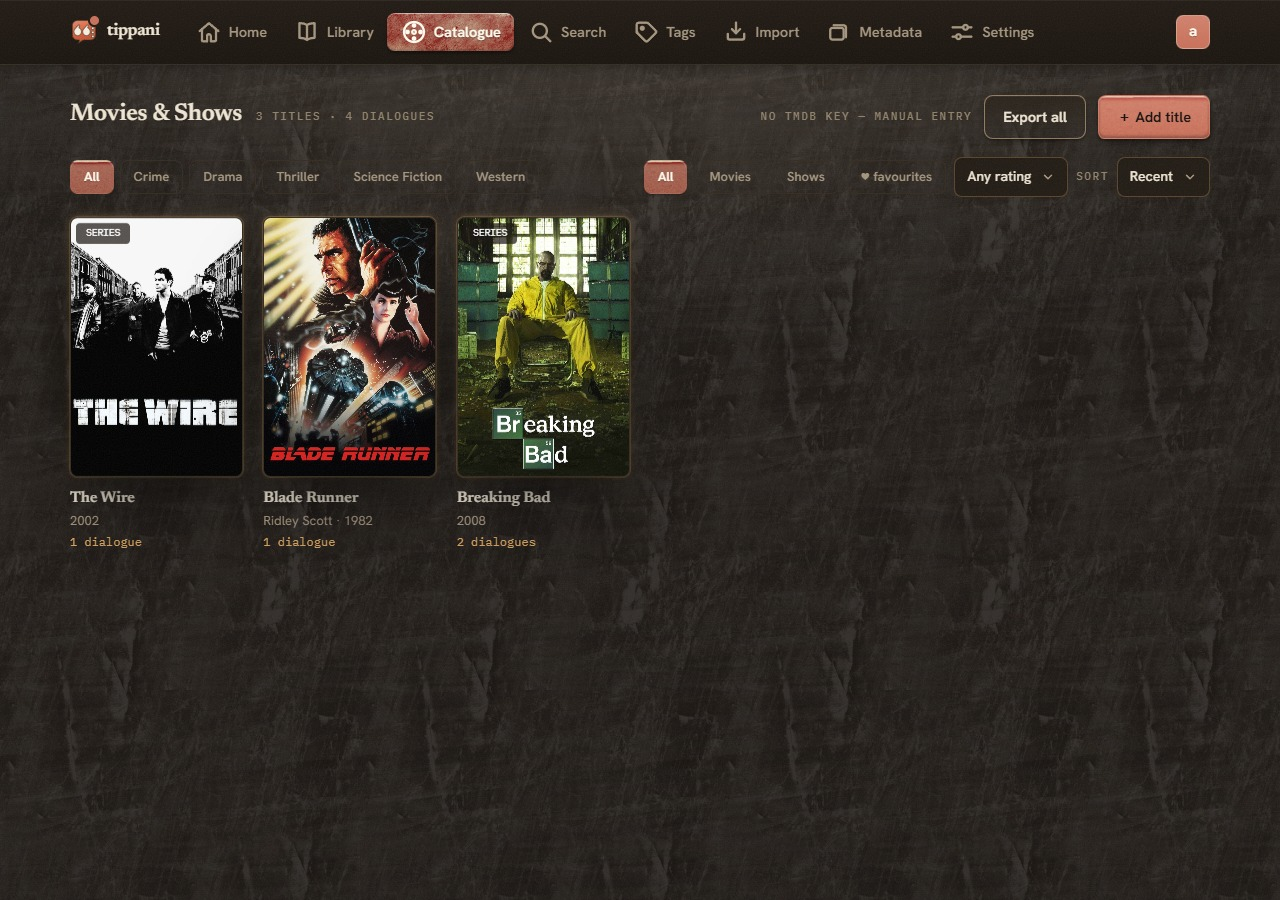
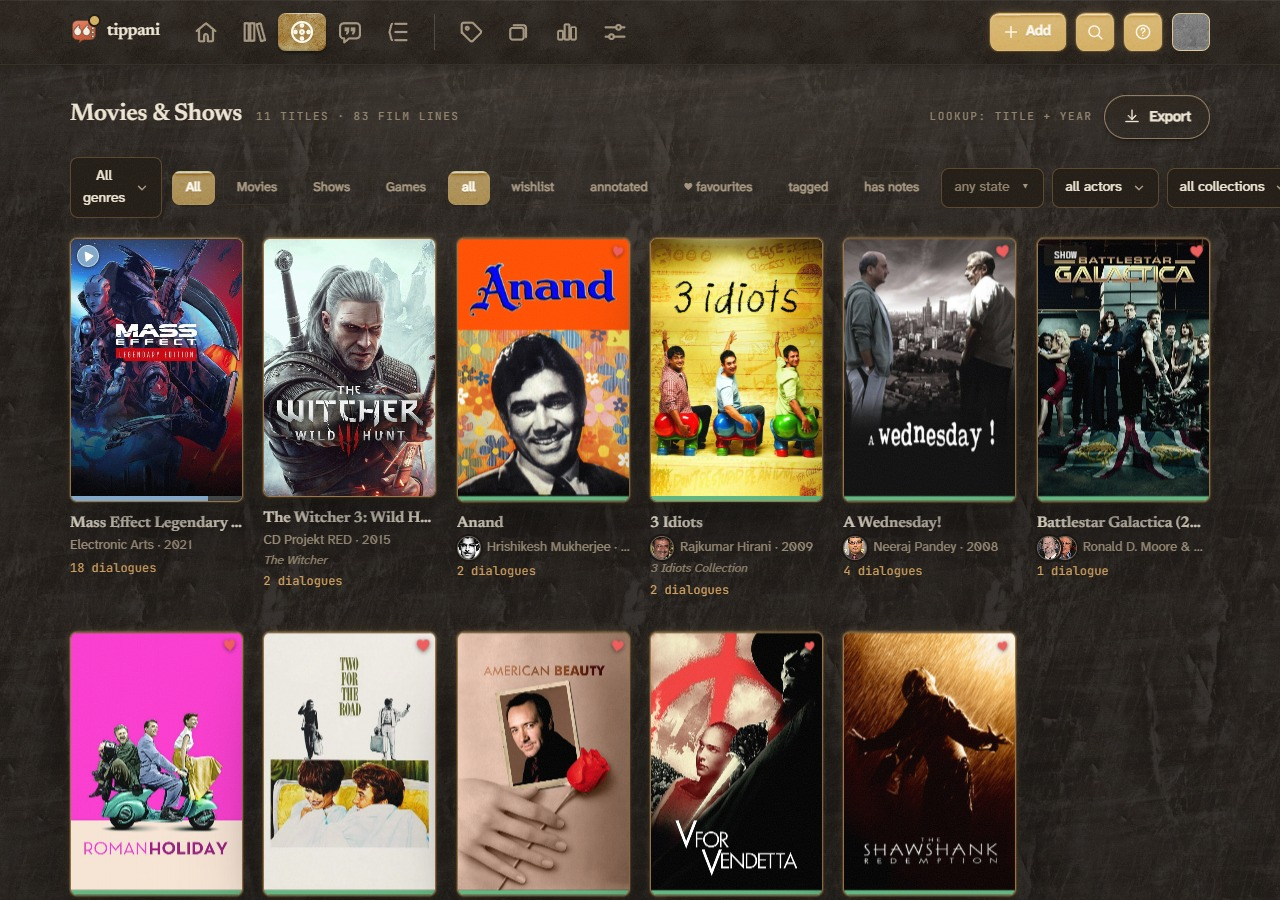
docs(readme): re-shoot the six hero images, all four skins
THE COMMITTED ONES WERE ADVERTISING A 501. They were shot against a shell that no
longer exists — a text tab strip (Home | Library | Catalogue | Search | Tags |
Import | Metadata | Settings), Import as a full page rather than a section of the
"+ Add" surface, no + Add button at all — and the import wall's My Clippings card
read "Kindle-device file — deferred for now · returns 501 — deferred" for an
importer that has since shipped, caveat and all. hero-shots.js was stale in the
same way, which is why its clickTab('Import') and clickTab('Search') both silently
matched nothing: neither is a tab any more, so two of the six shots came out as a
second copy of the Library and of the Catalogue.

ALL FOUR SKINS NOW, one per desktop shot, each on a different accent — Books
(paper · light · terracotta), Catalogue (film · dark · ochre), Import
(paper · dark · olive), Search (film · light · slate). The old set used
paper-light and film-dark only and forced terracotta on all six, so a reader never
saw half the theming the app is largely about.

THE PHONE SLOT IS THE QUOTES PAGE rather than a second cover grid: the standalone
quotes here are traditional proverbs in Bengali, Hindi and English, so it is the
one screen that shows three scripts at once, each with its script mark and its
English translation underneath. That is what the Bengali work was for and nothing
else in the README showed it.

THE SEARCH SHOT DEMONSTRATES THE TYPO FALLBACK, which nothing showed before:
[…]

diff --git a/README.md b/README.md
@@ -80,16 +80,16 @@ Both halves of that are set out in [`AI.md`](AI.md).
   <tr>
     <td width="38%"><img src="docs/img/library-paper-light.jpg" alt="Books — paper / light theme: a grid of real book covers with genre filters"></td>
     <td width="38%"><img src="docs/img/catalogue-film-dark.jpg" alt="Catalogue — film / dark theme: a grid of movie & show posters with dialogue counts"></td>
-    <td width="24%"><img src="docs/img/library-mobile-paper-light.jpg" alt="Books on a phone — paper / light theme: the cover grid in the mobile layout"></td>
+    <td width="24%"><img src="docs/img/quotes-mobile-paper-light.jpg" alt="Quotes on a phone — paper / light theme: standalone quotes in Bengali, Hindi and English, each with its script mark and translation"></td>
   </tr>
   <tr>
-    <td width="38%"><img src="docs/img/search-film-dark.jpg" alt="Search — film / dark theme: instant FTS5 results across books, annotations, movies and dialogues"></td>
-    <td width="38%"><img src="docs/img/import-paper-light.jpg" alt="Import — paper / light theme: cards for Markdown, Bookcision, Hardcover, Goodreads, IMDb and Kindle imports"></td>
+    <td width="38%"><img src="docs/img/search-film-light.jpg" alt="Search — film / light theme: a misspelled query corrected automatically, with results across books and annotations"></td>
+    <td width="38%"><img src="docs/img/import-paper-dark.jpg" alt="Import — paper / dark theme: cards for Markdown, Bookcision, Hardcover, Goodreads, IMDb and Kindle imports"></td>
     <td width="24%"><img src="docs/img/home-mobile-film-dark.jpg" alt="Home on a phone — film / dark theme: the Daily Quiz, Practice and library stats"></td>
   </tr>
 </table>
 
-<p align="center"><sub>Desktop — Books (paper · light) · Catalogue (film · dark) · Search (film · dark) · Import (paper · light). Mobile — Books &amp; the Home Daily Quiz (film · dark).</sub></p>
+<p align="center"><sub>All four skins, one per desktop shot — Books (paper · light) · Catalogue (film · dark) · Search (film · light) · Import (paper · dark), each on a different accent. Mobile — Quotes (paper · light) &amp; the Home Daily Quiz (film · dark).</sub></p>
 
 ## Features
 
